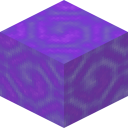
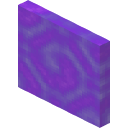
Stop chip terms matching inside words; draw the portal as a panel
Spore Blossom was filed under Ore because "ore" sits inside "spore". The
same fault put Bedrock under Dyed, Torchflower under Light, every Mossy
Cobblestone under Plants and every sandstone stair under Terrain. Requiring
a leading space, or the whole name, fixes each without losing the entries
the term was written for. Heavy Core had a category only by that accident
and now sits in Utility.

The nether portal was drawn as a full cube, which reads as solid violet
stone. It is one plane of swirl two pixels thick, so it is now rendered as
a thin upright panel in the same projection and face shading as the cubes.

diff --git a/script.js b/script.js
@@ -97,9 +97,9 @@ document.addEventListener('DOMContentLoaded', function () {
                           'deepslate', 'tuff', 'basalt', 'blackstone', 'calcite',
                           'prismarine', 'brick', 'quartz', 'purpur', 'cinnabar',
                           'sulfur', 'obsidian', 'bedrock', 'amethyst', 'dripstone']],
-            ['Ore',      ['ore', 'ancient debris', 'raw ']],
+            ['Ore',      [' ore', 'ancient debris', 'raw ']],
             ['Copper',   ['copper']],
-            ['Dyed',     ['wool', 'carpet', 'bed', 'banner', 'candle', 'concrete',
+            ['Dyed',     ['wool', 'carpet', ' bed', 'banner', 'candle', 'concrete',
                           'terracotta', 'shulker box', 'stained glass', 'glazed']],
             ['Glass',    ['glass']],
             ['Redstone', ['redstone', 'piston', 'observer', 'repeater',
@@ -109,7 +109,8 @@ document.addEventListener('DOMContentLoaded', function () {
                           'slime block', 'honey block', 'button',
                           'pressure plate', 'note block', 'lightning rod']],
             ['Plants',   ['sapling', 'flower', 'tulip', 'rose', 'grass', 'fern',
-                          'leaves', 'vine', 'moss', 'mushroom', 'wart', 'kelp',
+                          'leaves', 'vine', 'moss block', 'moss carpet',
+                          'mushroom', 'wart', 'kelp',
                           'seagrass', 'bamboo', 'cactus', 'azalea', 'dripleaf',
                           'petal', 'orchid', 'allium', 'daisy', 'lilac',
                           'cornflower', 'poppy', 'dandelion', 'eyeblossom',
@@ -120,7 +121,8 @@ document.addEventListener('DOMContentLoaded', function () {
                           'berry', 'nylium', 'propagule', 'spore', 'hay',
                           'dried kelp', 'bluet', '=cobweb']],
             ['Coral',    ['coral']],
-            ['Terrain',  ['dirt', 'sand', 'gravel', 'clay', 'mud', 'podzol',
+            ['Terrain',  ['dirt', '=sand', '=red sand', 'suspicious sand',
+                          'soul sand', 'gravel', 'clay', 'mud', 'podzol',
                           'mycelium', 'farmland', 'path', 'snow', 'ice',
                           '=powder snow', 'netherrack', 'soil', 'soul sand', 'sculk',
                           'magma', 'steppe', 'froglight', '=water',
@@ -131,7 +133,7 @@ document.addEventListener('DOMContentLoaded', function () {
                           'piglin', 'respawn anchor', 'lodestone', 'gilded']],
             ['End',      ['end ', 'ender', 'purpur', 'chorus', 'dragon',
                           'shulker']],
-            ['Light',    ['torch', 'lantern', 'glowstone', 'froglight',
+            ['Light',    ['=torch', ' torch', 'lantern', 'glowstone', 'froglight',
                           'shroomlight', 'end rod', 'campfire', 'lamp',
                           "jack o'", 'beacon', 'conduit', 'candle', '=fire',
                           '=soul fire', '=lava', '=light', '=magma block']],
@@ -145,7 +147,8 @@ document.addEventListener('DOMContentLoaded', function () {
                           'structure', 'jigsaw', 'barrier', 'frame', 'portal',
                           'cake', 'skull', 'head', 'sponge', 'block of',
                           'bone block', 'honeycomb', 'clump', 'resin',
-                          '=lodestone', '=conduit', '=beacon']],
+                          '=lodestone', '=conduit', '=beacon',
+                          '=heavy core']],
             ['Stairs',   ['stairs']],
             ['Slabs',    ['slab']],
             ['Walls',    ['wall', 'fence']]
